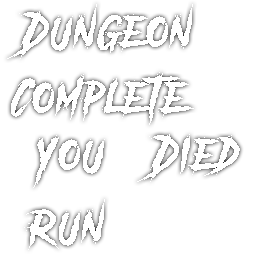
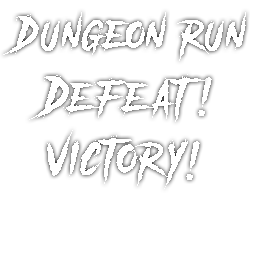
Simplify Summary Screen & Title
there are more states than "dungeon complete" and "you died".
so it makes sense to change these to "victory" and "defeat".

after re-planning the bigtext sheet, more simplifications.
updated bigTextSheet to use simplified DungeonRun logo.
updated bigTextSheet to use simplified Defeat/Victory text.

removed TitleAnimated class from codebase.
removed Functions_TitleAnimated.cs from codebase.
removed TitleAnimated instances from Title and Summary screens.
these have been replaced with a SpriteComponent instanced named 'title'.
this represents the centered large text sprite.
playtested, titles appear on Title and Summary screens.

added code to flicker TitleScreen's title text.
added code to flicker SummaryScreen's title and continue text.
playtested, looks better. improved all sprites on bigTextSheet.

while porting the recent changes to UWP, a bug appears.
this is related to exiting dungeons, which throws an error.
an error is not thrown when exiting the shop, so perhaps its the summary screen?
the bug is likely the calls to SaveGame(), which is async.
so the double call to SaveGame() was changed to be a single call.
this single call is done in Overworld Screen's LoadContent method.
calls to SaveGame() were removed from Level and Summary Screens.
playtested, this fixed the bug, but also revealed another.

if kills and damage = 0, then the rating is displayed as NAN.
updated the SummaryScreen's Skill Rating code section to prevent a divide by 0 error.
[…]

diff --git a/GameClasses/ScreenSummary.cs b/GameClasses/ScreenSummary.cs
@@ -15,8 +15,7 @@ namespace DungeonRun
     public class ScreenSummary : Screen
     {
         ScreenRec background = new ScreenRec();
-        TitleAnimated leftTitle;
-        TitleAnimated rightTitle;
+        ComponentSprite title;
         ComponentText summaryText;
         ComponentText summaryData;
         ComponentText continueText;
@@ -35,32 +34,15 @@ namespace DungeonRun
             background.alpha = 1.0f;
 
 
-            #region Create animated Titles
+            #region Create Title
 
-            float yPos = 80;
-            if (DungeonRecord.beatDungeon)
-            {   //'dungeon complete' state
-                leftTitle = new TitleAnimated(
-                    new Vector2(-200, yPos),
-                    new Vector2(115 + 5, yPos),
-                    TitleText.Dungeon, 8);
-                rightTitle = new TitleAnimated(
-                    new Vector2(640, yPos),
-                    new Vector2(320 + 5, yPos),
-                    TitleText.Complete, 8);
-                Assets.Play(Assets.sfxBeatDungeon);
-            }
-            else
-            {   //'you died' state
-                leftTitle = new TitleAnimated(
-                    new Vector2(-100, yPos),
-                    new Vector2(190 + 4, yPos),
-                    TitleText.You, 8);
-                rightTitle = new TitleAnimated(
-                    new Vector2(640, yPos),
-                    new Vector2(305 + 4, yPos),
-                    TitleText.Died, 8);
-            }
+            Byte4 frame = new Byte4(0, 1, 0, 0);
+            if (DungeonRecord.beatDungeon) { frame.Y = 2; }
+            title = new ComponentSprite(Assets.bigTextSheet,
+                    new Vector2(583 - 256, 80), 
+                    frame,
+                    new Point(16 * 16, 16 * 4));
+            title.alpha = 0.0f;
 
             #endregion
 
@@ -95,10 +77,16 @@ namespace DungeonRun
 
             int enemiesKilledNew = PlayerData.current.enemiesKilled + DungeonRecord.enemyCount;
             int damageNew = PlayerData.current.damageTaken + DungeonRecord.totalDamage;
-            //calculate diff between old and new SR
-            float newSR = (float)enemiesKilledNew / (float)damageNew;
-            float oldSR = (float)PlayerData.current.enemiesKilled / (float)PlayerData.current.damageTaken;
-            ratingChange = (float)Math.Round(newSR - oldSR, 2); //round to 2 digits
+
+            double newSR = 0.0; //calculate new SR, prevent divide by 0
+            if (enemiesKilledNew + damageNew > 0) { newSR = enemiesKilledNew / damageNew; }
+
+            double oldSR = 0.0; //calculate old SR, prevent divide by 0
+            if (PlayerData.current.enemiesKilled + PlayerData.current.damageTaken > 0)
+            { oldSR = PlayerData.current.enemiesKilled / PlayerData.current.damageTaken; }
+
+            //calculate the change in ratings, to 2 digits
+            ratingChange = (float)Math.Round(newSR - oldSR, 2);
 
             #endregion
 
@@ -114,8 +102,6 @@ namespace DungeonRun
             PlayerData.current.hours += toAdd.Hours;
             PlayerData.current.mins += toAdd.Minutes;
             PlayerData.current.secs += toAdd.Seconds;
-            //autosave PlayerData.current
-            Functions_Backend.SaveGame(GameFile.AutoSave);
 
             //these two values combined allow us to track how many times each dungeon & boss has been defeated, or killed hero
             //DungeonRecord.dungeonID
@@ -150,26 +136,19 @@ namespace DungeonRun
             #region Handle Opening / Closing screen state
 
             if (displayState == DisplayState.Opening)
-            {   //animate titles into place
-                Functions_TitleAnimated.AnimateMovement(leftTitle);
-                Functions_TitleAnimated.AnimateMovement(rightTitle);
-                //fade in components
-                leftTitle.compSprite.alpha += textFadeSpeed;
-                rightTitle.compSprite.alpha += textFadeSpeed;
+            {   //fade in components
+                title.alpha += textFadeSpeed;
                 continueText.alpha += textFadeSpeed;
                 summaryText.alpha += textFadeSpeed;
                 summaryData.alpha += textFadeSpeed;
                 //check components position + opacity, transition state
-                if (rightTitle.displayState == DisplayState.Opened && 
-                    leftTitle.displayState == DisplayState.Opened &&
-                    continueText.alpha >= 1.0f)
+                if (continueText.alpha >= 1.0f)
                 { continueText.alpha = 1.0f; displayState = DisplayState.Opened; }
             }
             else if (displayState == DisplayState.Closing)
             {
                 //fade out components
-                leftTitle.compSprite.alpha -= textFadeSpeed * 1.5f;
-                rightTitle.compSprite.alpha -= textFadeSpeed * 1.5f;
+                title.alpha -= textFadeSpeed * 1.5f;
                 summaryText.alpha -= textFadeSpeed * 1.5f;
                 summaryData.alpha -= textFadeSpeed * 1.5f;
                 continueText.alpha -= textFadeSpeed * 0.9f;
@@ -184,13 +163,12 @@ namespace DungeonRun
             #region Handle Opened Display State
 
             else if (displayState == DisplayState.Opened)
-            {
-                //pulse the alpha of the left and right title sprites
-                if (leftTitle.compSprite.alpha >= 1.0f) { leftTitle.compSprite.alpha = 0.85f; }
-                if (rightTitle.compSprite.alpha >= 1.0f) { rightTitle.compSprite.alpha = 0.85f; }
+            {   //flicker title
+                if (title.alpha >= 1.0f) { title.alpha = 0.85f; }
+                else if (title.alpha < 0.85f) { title.alpha += 0.03f; }
+                title.alpha += 0.005f;
+                //flicker continue text
                 if (continueText.alpha >= 1.0f) { continueText.alpha = 0.85f; }
-                leftTitle.compSprite.alpha += 0.004f;
-                rightTitle.compSprite.alpha += 0.004f;
                 continueText.alpha += 0.01f;
 
                 if(!countingComplete)
@@ -232,8 +210,7 @@ namespace DungeonRun
         {
             ScreenManager.spriteBatch.Begin(SpriteSortMode.Deferred, BlendState.AlphaBlend, SamplerState.PointClamp);
             Functions_Draw.Draw(background);
-            Functions_Draw.Draw(leftTitle.compSprite);
-            Functions_Draw.Draw(rightTitle.compSprite);
+            Functions_Draw.Draw(title);
             Functions_Draw.Draw(summaryData);
             Functions_Draw.Draw(summaryText);
             Functions_Draw.Draw(continueText);

diff --git a/GameClasses/ScreenTitle.cs b/GameClasses/ScreenTitle.cs
@@ -17,8 +17,7 @@ namespace DungeonRun
         ScreenRec overlay = new ScreenRec();
         ComponentSprite background;
         static MenuWindow window;
-        TitleAnimated leftTitle;
-        TitleAnimated rightTitle;
+        ComponentSprite title;
         int i;
 
         public List<ComponentText> labels;
@@ -51,15 +50,11 @@ namespace DungeonRun
                 new Vector2(640/2, 360/2), new Byte4(0, 0, 0, 0), new Point(640, 360));
             window = new MenuWindow(new Point(16 * 13 + 8 + 4, 16 * 15),
                 new Point(16 * 12 + 8, 16 * 5 + 8), "Main Menu");
-            float yPos = 200;
-            leftTitle = new TitleAnimated(
-                new Vector2(-150, yPos),
-                new Vector2(200-35, yPos),
-                TitleText.Dungeon, 8);
-            rightTitle = new TitleAnimated(
-                new Vector2(640+25, yPos),
-                new Vector2(320+35, yPos),
-                TitleText.Run, 8);
+            title = new ComponentSprite(Assets.bigTextSheet, 
+                new Vector2(583 - 256, 200), //center
+                new Byte4(0, 0, 0, 0), 
+                new Point(16 * 16, 16 * 4));
+            title.alpha = 0.0f;
 
 
             #region Create the menuItems
@@ -259,15 +254,7 @@ namespace DungeonRun
                 }
             }
             else if (displayState == DisplayState.Opened)
-            {   //animate titles in
-                Functions_TitleAnimated.AnimateMovement(leftTitle);
-                Functions_TitleAnimated.AnimateMovement(rightTitle);
-                //fade titles in
-                if (leftTitle.compSprite.alpha < 1.0f)
-                { leftTitle.compSprite.alpha += 0.05f; }
-                if (rightTitle.compSprite.alpha < 1.0f)
-                { rightTitle.compSprite.alpha += 0.05f; }
-                //open the window
+            {   //open the window
                 Functions_MenuWindow.Update(window);
             }
             else if (displayState == DisplayState.Closing)
@@ -294,6 +281,11 @@ namespace DungeonRun
                 else { selectionBox.scale = 1.0f; }
                 //scale currently selected menuItem back down to 1.0
                 Functions_Animation.ScaleSpriteDown(currentlySelected.compSprite);
+
+                //flicker title
+                if (title.alpha >= 1.0f) { title.alpha = 0.85f; }
+                else if (title.alpha < 0.85f) { title.alpha += 0.03f; }
+                title.alpha += 0.005f;
             }
         }
 
@@ -301,8 +293,7 @@ namespace DungeonRun
         {
             ScreenManager.spriteBatch.Begin(SpriteSortMode.Deferred, BlendState.AlphaBlend, SamplerState.PointClamp);
             Functions_Draw.Draw(background);
-            Functions_Draw.Draw(leftTitle.compSprite);
-            Functions_Draw.Draw(rightTitle.compSprite);
+            Functions_Draw.Draw(title);
             Functions_Draw.Draw(window);
             if (window.interior.displayState == DisplayState.Opened)
             {

diff --git a/GameClasses/DataClasses.cs b/GameClasses/DataClasses.cs
@@ -904,27 +904,6 @@ namespace DungeonRun
         }
     }
 
-    public class TitleAnimated
-    {
-        public int animSpeed; //how fast title moves, lower is faster
-        public ComponentSprite compSprite;
-        public Vector2 startPos;
-        public Vector2 endPos;
-        public DisplayState displayState;
-
-        public TitleAnimated(Vector2 StartPos, Vector2 EndPos, TitleText Text, int AnimSpeed)
-        {
-            startPos = StartPos;
-            endPos = EndPos;
-            animSpeed = AnimSpeed;
-            compSprite = new ComponentSprite(Assets.bigTextSheet,
-                new Vector2(0,0), new Byte4(0, 0, 0, 0), new Point(16 * 1, 16 * 4));
-            compSprite.alpha = 0.0f; //titles fade in
-            Functions_TitleAnimated.Reset(this);
-            Functions_TitleAnimated.SetText(this, Text);
-        }
-    }
-
     public class ScreenRec
     {
         public Rectangle rec = new Rectangle(0, 0, 640, 360);

diff --git a/GameClasses/ScreenOverworld.cs b/GameClasses/ScreenOverworld.cs
@@ -258,12 +258,14 @@ namespace DungeonRun
             #endregion
 
 
-
             //set the player's sprite based on the hero.actorType
             if (PlayerData.current.actorType == ActorType.Blob)
             { hero.compSprite.texture = Assets.blobSheet; }
             else if(PlayerData.current.actorType == ActorType.Hero)
             { hero.compSprite.texture = Assets.heroSheet; }
+
+            //autosave the current game
+            Functions_Backend.SaveGame(GameFile.AutoSave);
         }
 
         public override void HandleInput(GameTime GameTime)

diff --git a/GameClasses/ScreenLevel.cs b/GameClasses/ScreenLevel.cs
@@ -104,8 +104,6 @@ namespace DungeonRun
                 else if (displayState == DisplayState.Closed)
                 {
                     DungeonRecord.timer.Stop();
-                    //save the player's current game progress to autoSave file
-                    Functions_Backend.SaveGame(GameFile.AutoSave);
                     //handle exit action
                     if (exitAction == ExitAction.Summary || exitAction == ExitAction.ExitDungeon)
                     { ScreenManager.ExitAndLoad(new ScreenSummary()); }

diff --git a/GameClasses/Functions_Animation.cs b/GameClasses/Functions_Animation.cs
@@ -50,5 +50,10 @@ namespace DungeonRun
             }
         }
 
+
+        //functions for types of animation movement
+        //move sprite right to target, easeIn
+        //Title.compSprite.position.X += (TargetPos.X - Title.compSprite.position.X) / Title.animSpeed;
+        //Title.compSprite.position.X += 1; //always move at least 1 pixel
     }
 }
